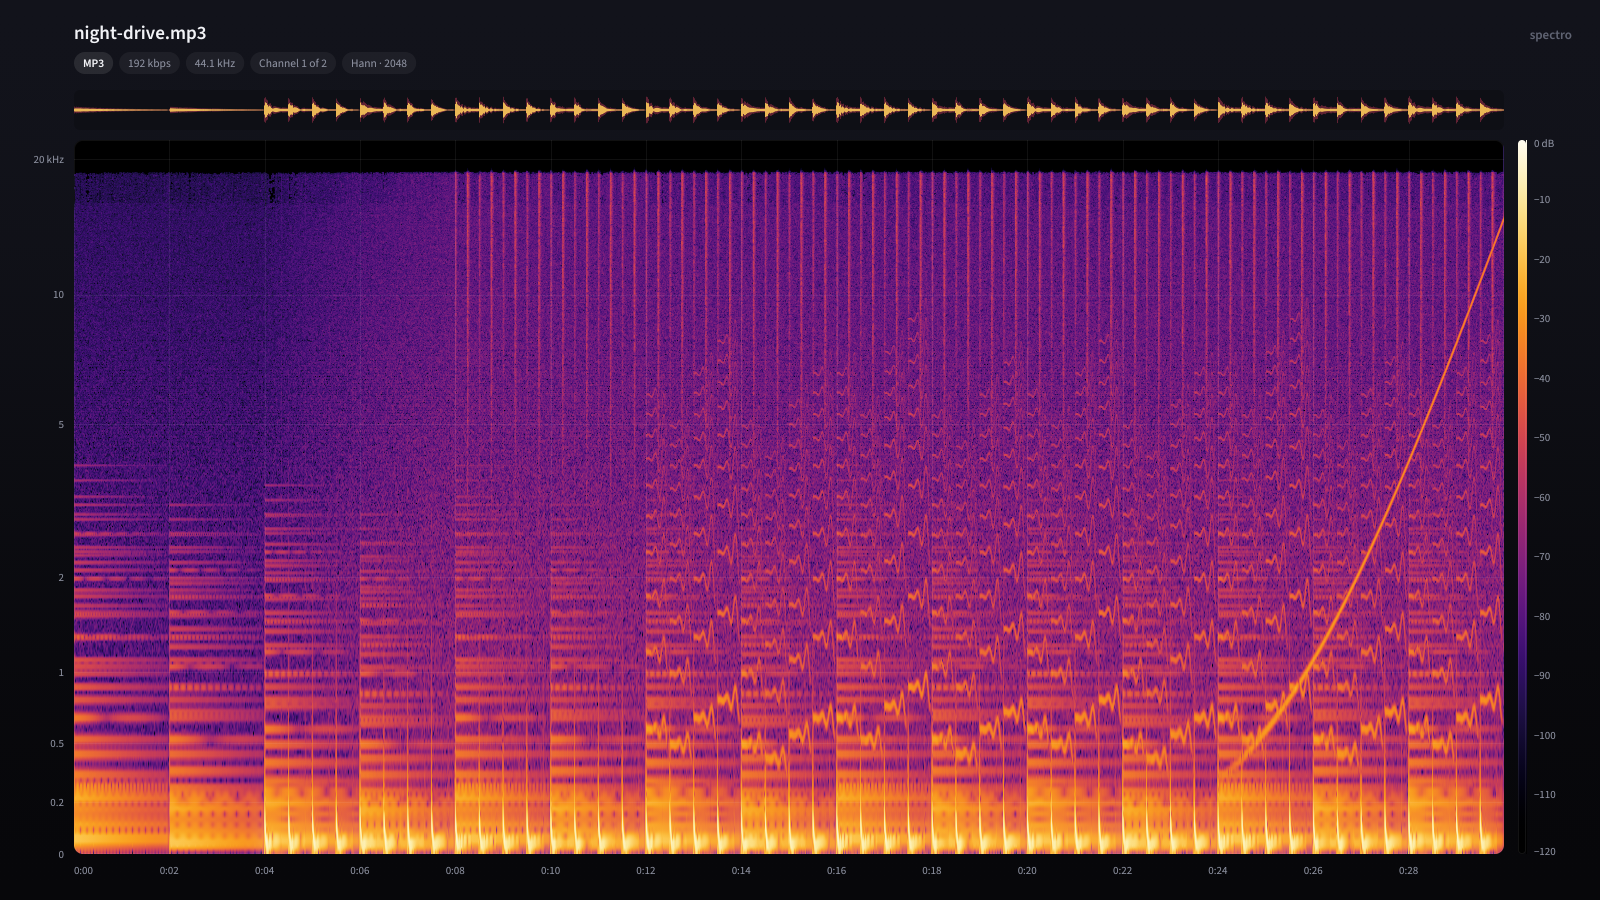
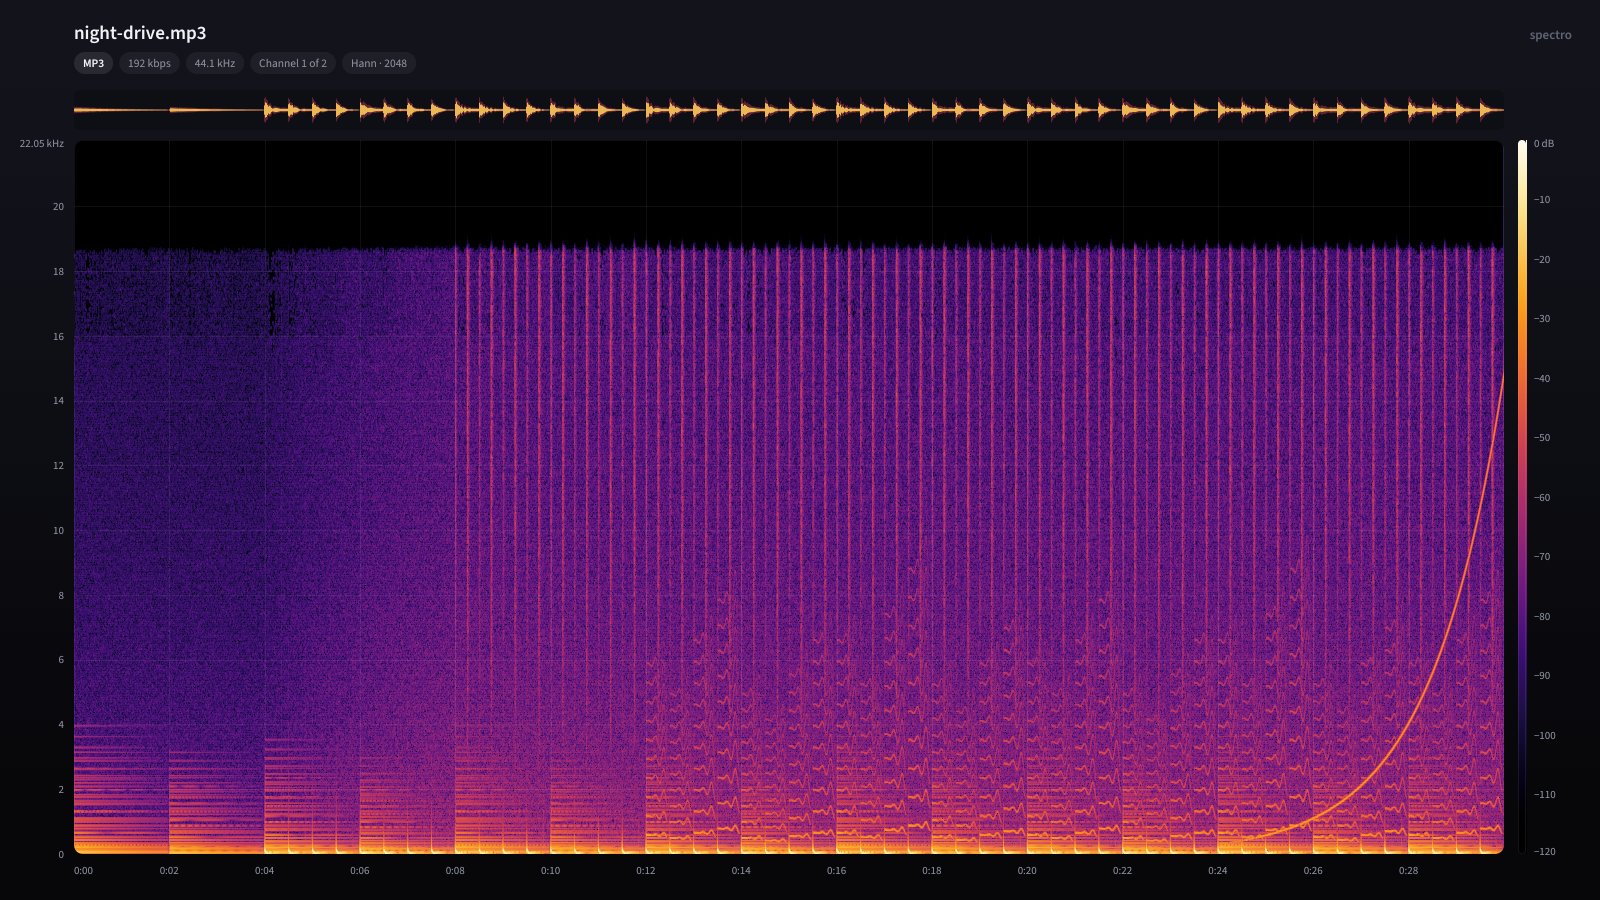
Default to a linear frequency axis and label its true top
The mel default squeezed 16-22 kHz, where encoder cutoffs show, into a
tenth of the height, and the top edge carried no label, so the picture
looked cut off at 20 kHz. Linear is the default again (mel and log stay
on y), and the top edge is always labelled with the Nyquist frequency,
e.g. 22.05 kHz. Sub-second time labels show one decimal.

diff --git a/crates/spectro-core/src/render.rs b/crates/spectro-core/src/render.rs
@@ -33,12 +33,13 @@ const CARD: u32 = 0x17181f;
 /// How frequency maps to height.
 #[derive(Clone, Copy, Debug, PartialEq, Eq, Default)]
 pub enum FreqScale {
-    /// Perceptual: close to linear at low frequencies, logarithmic above
-    /// about 1 kHz. Music fills the picture and codec cutoffs stay visible.
+    /// Equal height per hertz, as in Spek. Best for the top octave, where
+    /// encoder cutoffs and resampling show.
     #[default]
-    Mel,
-    /// Spek's scale: equal height per hertz.
     Linear,
+    /// Perceptual: close to linear at low frequencies, logarithmic above
+    /// about 1 kHz. Music fills the picture; the top octave gets compressed.
+    Mel,
     /// Equal height per octave, from 20 Hz.
     Log,
 }
@@ -50,7 +51,7 @@ fn mel(f: f64) -> f64 {
 }
 
 impl FreqScale {
-    pub const ALL: [FreqScale; 3] = [FreqScale::Mel, FreqScale::Linear, FreqScale::Log];
+    pub const ALL: [FreqScale; 3] = [FreqScale::Linear, FreqScale::Mel, FreqScale::Log];
 
     pub fn name(self) -> &'static str {
         match self {
@@ -610,7 +611,12 @@ impl Renderer {
                     out
                 }
             };
-            let top = values.iter().copied().filter(|&f| f > 0.0).fold(0.0, f64::max);
+            // The top edge is always labelled with the true maximum (the
+            // Nyquist frequency), so the full range is visible at a glance.
+            let mut values: Vec<f64> =
+                values.into_iter().filter(|&f| (1.0 - scale.frac(f, nyquist)) * p.h as f64 >= gap).collect();
+            values.push(nyquist);
+            let top = nyquist;
             for &f in &values {
                 let y = (p.y + p.h) as f64 - scale.frac(f, nyquist).max(0.0) * p.h as f64;
                 if f > 0.0 && f < nyquist {
@@ -645,7 +651,10 @@ impl Renderer {
                 if t > 0.0 && t < v.duration {
                     c.fill(math::round(x) as i64, p.y, hair, p.h, WHITE, 0.07);
                 }
-                let label = format_time(t, step < 1.0);
+                let mut label = format_time(t, step < 1.0);
+                if step < 1.0 {
+                    label.pop(); // steps are tenths, so show one decimal
+                }
                 let tw = self.text.width(Weight::Regular, l.label_px, &label);
                 let lx = (x as f32 - tw / 2.0).max(p.x as f32);
                 if lx + tw > (p.x + p.w) as f32 + 2.0 * s {

diff --git a/src/main.rs b/src/main.rs
@@ -43,7 +43,7 @@ Options:
   -u, --upper DB              upper limit of the dynamic range in dBFS
   -l, --lower DB              lower limit of the dynamic range in dBFS
       --glow on|off           let loud components bloom (default on)
-      --freq-scale NAME       mel (default), linear or log
+      --freq-scale NAME       linear (default), mel or log
   -h, --help                  show this help and exit
   -V, --version               show the version and exit
 

diff --git a/README.md b/README.md
@@ -26,10 +26,11 @@ spectrograms around.
   scanline sweeps across while it is analysed. Hover to get a crosshair
   that reads out time, frequency and level.
 - **Better pictures.**
-  - The frequency axis is perceptual (mel) by default: chords, melodies and
-    harmonics get room instead of being squeezed into the bottom fifth,
-    and encoder cutoffs still show at the top. Press `y` for Spek's linear
-    axis or a logarithmic one.
+  - The frequency axis is linear to the Nyquist frequency (22.05 kHz for
+    44.1 kHz audio), which is right for checking encoder cutoffs. The top
+    edge is always labelled with the true maximum. Press `y` for a
+    perceptual (mel) axis that gives chords, melodies and harmonics room,
+    or a logarithmic one.
   - Loud components glow softly (bloom). Press `g` to turn it off.
   - Each column averages the power of up to 24 overlapping windowed FFTs
     across its time slice (Welch's method), so noise looks smooth and tones
@@ -48,9 +49,9 @@ spectrograms around.
   - Sharp, anti-aliased text and lines at any display scale, including
     Retina/HiDPI, using embedded Source Sans 3 outlines.
 
-| Spek's look: Spectrum palette, linear axis, no glow | Glacier palette |
+| Spectrum palette, no glow (Spek's colours) | Glacier palette, mel axis |
 | --- | --- |
-| ![The same track with the Spectrum palette and a linear axis](docs/spectrum.png) | ![The same track with the Glacier palette](docs/glacier.png) |
+| ![The same track with the Spectrum palette](docs/spectrum.png) | ![The same track with the Glacier palette on a mel axis](docs/glacier.png) |
 
 ## Install
 
@@ -99,7 +100,7 @@ On macOS use Cmd instead of Ctrl.
 | `w`, `W` | Change the DFT window size (256 to 16384) |
 | `u`, `U` | Change the upper limit of the dynamic range in dBFS |
 | `l`, `L` | Change the lower limit of the dynamic range in dBFS |
-| `y`, `Y` | Change the frequency scale (mel, linear, logarithmic) |
+| `y`, `Y` | Change the frequency scale (linear, mel, logarithmic) |
 | `g` | Turn the glow on or off |
 | `Esc` | Close a panel |
 
@@ -114,8 +115,8 @@ Windows).
 - `Ctrl-E` shows the current settings. Spek's preferences dialog sets the
   language and update checks; spectro is English only and never uses the
   network.
-- The picture is redesigned (see above). For Spek's look, use
-  `-p spectrum --freq-scale linear --glow off`, or press `p`, `y` and `g`.
+- The picture is redesigned (see above). For Spek's colours, use
+  `-p spectrum --glow off`, or press `p` and `g`.
 - Extra: the hover readout, the loudness waveform, the frequency scales,
   the glow, three new palettes, and `--output` with the other command-line
   options.
